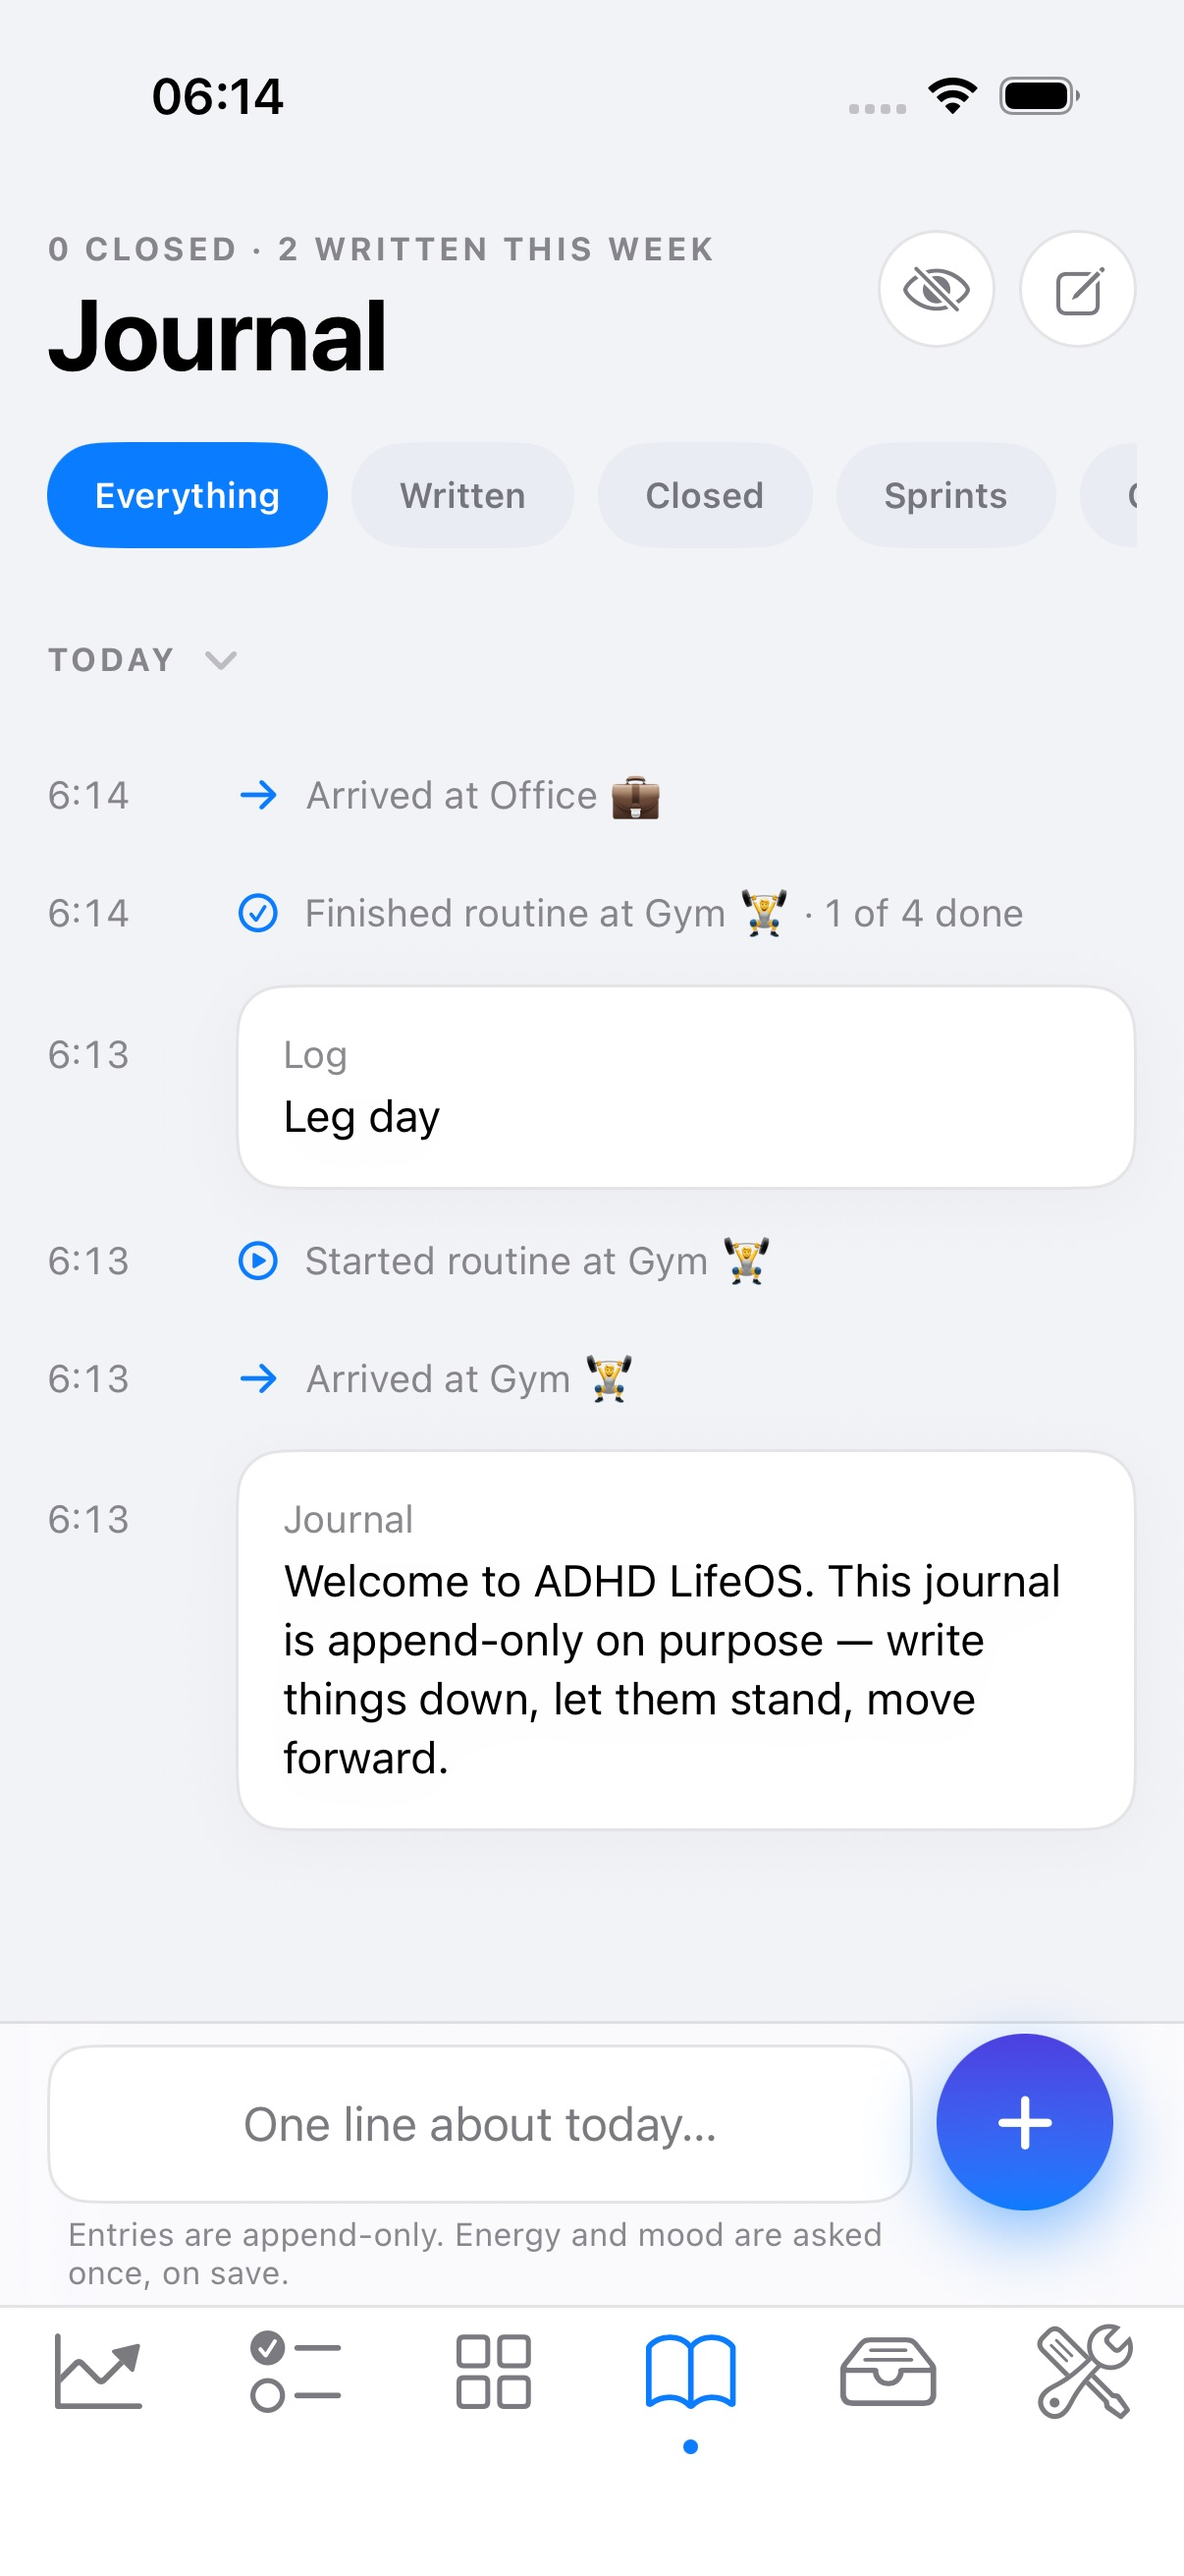
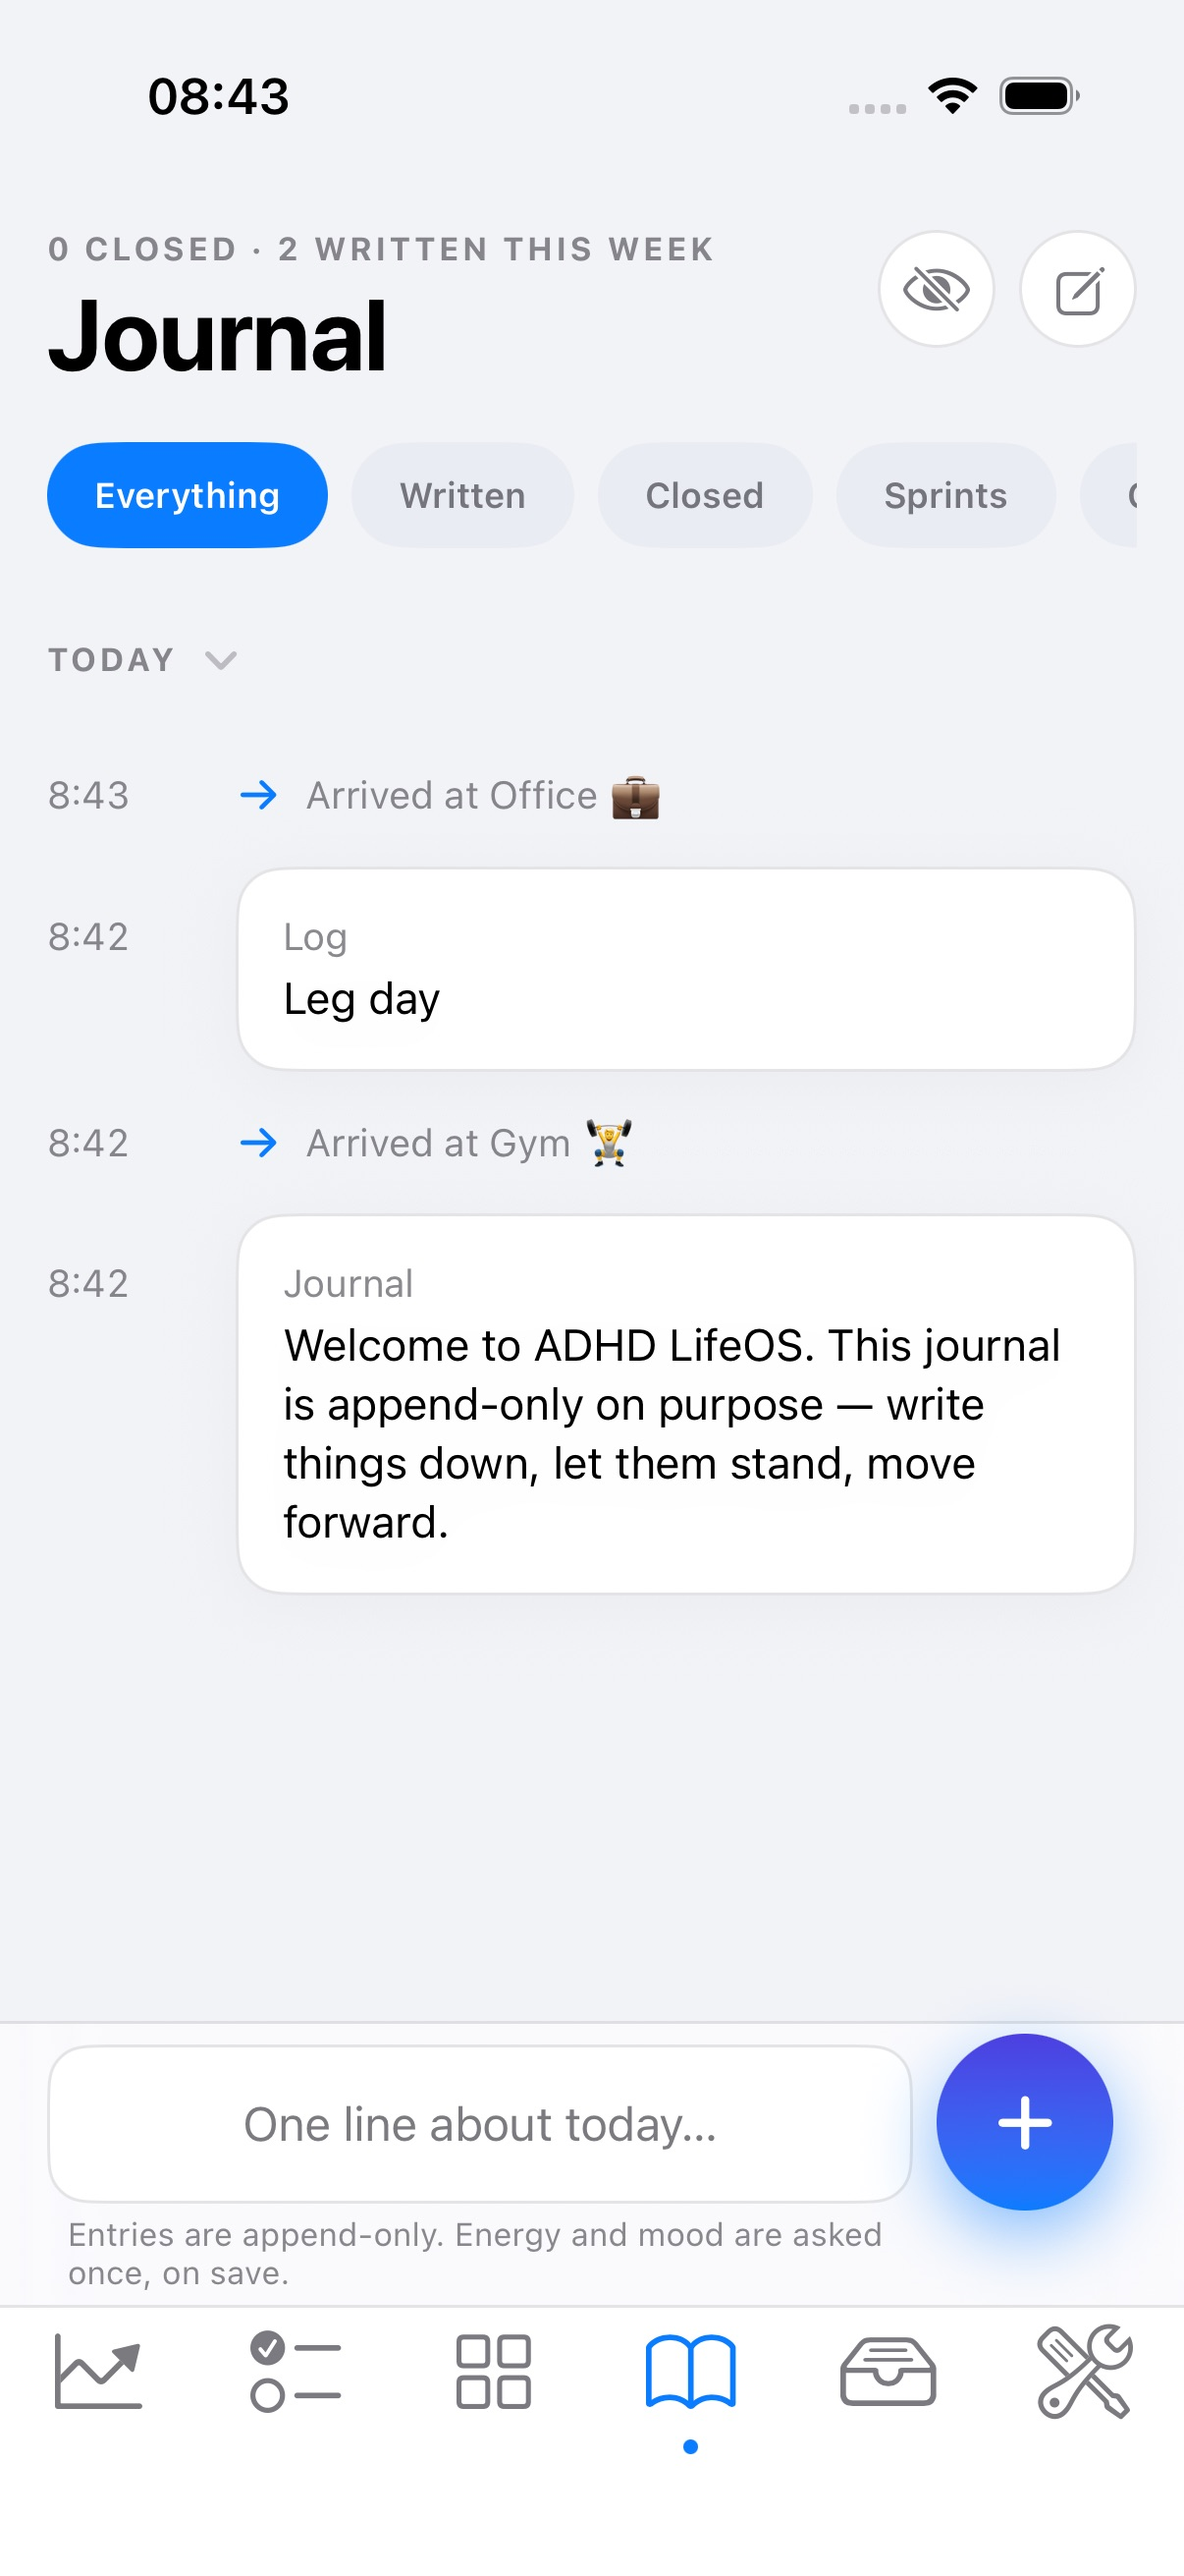
F-RoutineRecord-2: eye hides every routine row — journey green; swipe path proved on device
Finishes the WIP eye-switch change: RoutineRecordJourneyUITests passed on the
new rule (206 s, erased sim), 00-/01- re-captured, suite 2,454 / 0 with the
emulator up, lint 0 / 704, build green, red-checked (3 injections → 4 + 6 + 1
failing tests, each its guard; restored 19 / 19).

Also settles the walk's open question: the swipe path WORKS. A controlled
experiment on E's phone (test-fire via iPhone Mirroring, E's physical
Notification Centre clear, run 6EE57B3C read live before and after) flipped
the document to dismissed/swipe through the live rules. A presented banner
swiped up reports nothing to iOS, so the walk's "not opened" rows were honest.
Evidence in screenshots/routine-record/09-,10- and both design records.

Claude-Session: https://claude.ai/code/session_017SPaAdg3kMyWwzH37jWxyH

diff --git a/screenshots/routine-record/README.md b/screenshots/routine-record/README.md
@@ -28,8 +28,8 @@ in the same block:
 
 | file | what it proves |
 |---|---|
-| `00-journal-all-activity-off.jpg` | Everything, switch OFF: `Arrived at Gym` kept beside `Started routine at Gym` and `Finished routine at Gym · 1 of 4 done` (three skips, one auto step — "done" excludes skipped). `Arrived at Office` shows with NO routine row: the untaken offer is hidden by default. |
-| `01-journal-all-activity-on.jpg` | Switch ON (filled eye, selected): `Routine offered at Office · not opened` appears, muted — tertiary ink and a `bell.slash` glyph with no accent — while started/finished keep the accent glyph. Nothing else moved. |
+| `00-journal-all-activity-off.jpg` | E's post-walk rule (re-captured 2026-09-06): switch OFF hides EVERY routine row — started and finished included. The day reads `Arrived at Office 💼`, the `Leg day` log, `Arrived at Gym 🏋` and nothing else. `Leg day` stays because it is the routine's `journal_line` STEP — a `logs` row, not a routine row, so the eye rightly leaves it. |
+| `01-journal-all-activity-on.jpg` | Switch ON (filled eye, selected): the whole routine story returns — `Started routine at Gym 🏋` and `Finished routine at Gym 🏋 · 1 of 4 done` (three skips, one auto step — "done" excludes skipped) with accent glyphs, and `Routine offered at Office 💼 · not opened` muted — tertiary ink, `bell.slash`, no accent. The crossings never moved. |
 | `02-tools-last-run-line.jpg` | Tools → Routines: the gym row reads `Gym · 3 steps · last run today, 1 of 4`; the office row, never started, is byte-identical to before (`Office · 3 steps`). |
 
 ## E's device walk — 2026-09-06, iPhone 15 Pro (iOS 26.4), live Firebase, E's own account
@@ -48,11 +48,26 @@ nothing to clean up — it is E's journal.
 | `07-device-third-run-switch-off.jpg` | A third run two minutes later: `Arrived` 7:47 → `Started` 7:47 → `Finished … · 1 of 2 done` 7:48 (one skip). The three-lines-per-visit shape E chose, on real data. |
 | `08-device-third-run-switch-on.jpg` | Switch ON again over the same day: the offers return in place, muted. |
 
-**Not proved by these:** the SWIPE path. Both offered rows say `not opened`, i.e. they timed out
-or were replaced; a swiped banner would read `· cleared`. Whether E swiped them is the open
-question at the time of writing.
+## The swipe path — proved on device, 2026-09-06 review session (same phone, live Firebase)
 
-**Superseded after the walk:** E's call is that the eye hides EVERY routine row, started and
-finished included. Files `00-` and `01-` show the earlier rule (started/finished always visible)
-and will be replaced when the journey is re-run on the new rule. Files `03-`…`08-` are E's device
-walk under the earlier rule too.
+The walk left the swipe path open: every offered row said `not opened`, and E's answer to "did
+you swipe?" was *a mix of both* — which looked like a broken dismiss branch. A controlled
+experiment settled it, still on build `7430ea7`: a test-fired Home arrival at 08:35 (driven
+through iPhone Mirroring) wrote run `6EE57B3C…` as `offered` — read live over the Firebase MCP —
+then E cleared its notification in Notification Centre by hand (left swipe → Clear; mirroring
+cannot reach Notification Centre), and the document flipped to `dismissed` / `swipe` /
+`dismissed_at 07:37:27Z`. **Why the walk showed none:** swiping a PRESENTED banner up only
+hides it — iOS reports nothing — and the next fire replaces it; only a real Notification Centre
+clear is a "swipe" to iOS. E took these two screenshots minutes later; what a test cannot
+assert here is precisely the real iOS dismissal delivery and how `· cleared` reads on real data.
+
+| file | what it proves |
+|---|---|
+| `09-device-swipe-cleared-switch-off.jpg` | Dark, switch OFF: the 8:35 slot shows `Arrived at Home 🏠` alone — the cleared offer hides by default. (Started/finished rows from 7:46–7:48 still visible: this build predates the eye-hides-everything change.) |
+| `10-device-swipe-cleared-switch-on.jpg` | Switch ON: `Routine offered at Home 🏠 · cleared` at 8:35 — the first `· cleared` ever rendered, muted with the `bell.slash` glyph, sitting under its arrival row. The whole dismissal pipeline (banner → iOS dismiss action → delegate → Firestore → Journal) on one screen. |
+
+**The rule changed after the walk:** E's call is that the eye hides EVERY routine row, started
+and finished included. Files `00-` and `01-` were re-captured by the journey on that rule.
+Files `03-`…`10-` are E's device under the EARLIER rule (started/finished always visible with
+the eye off) — the phone carried `7430ea7` throughout; what they prove (muting, the three-line
+shape, the swipe pipeline) is unchanged by the eye's wider gate.

diff --git a/handoff/SESSION-OPENER-routine-record-design.md b/handoff/SESSION-OPENER-routine-record-design.md
@@ -215,10 +215,32 @@ test of it.
 
 - **E's call after the device walk: the "All activity" eye hides EVERY routine row** — started
   and finished too, not only the offers. Off, the Journal shows the crossing rows alone. This
-  supersedes "started and finished always visible under Everything" above. Implemented and
-  unit-tested in a `WIP:` commit; journey, docs and phone still owed (see the live opener).
+  supersedes "started and finished always visible under Everything" above. Implemented
+  test-first, then finished by the review session (2026-09-06): journey green on the new rule
+  (206 s, erased sim), suite 2,454 / 0, lint 0 / 704, red-checked 3 → 4 + 6 + 1. The routine's
+  own `journal_line` step rows stay visible with the eye off — they are `logs` rows, not
+  routine rows, which the re-captured `00-` screenshot shows.
 - **Build-record item 2 is withdrawn as a finding.** The off-screen `AppTabContent` change did
   not stop a later identical failure on a build that carried it, and the hidden tab's elements
   were still in that failure's dump. Treat it as a hypothesis with an insufficient fix.
-- E republished `firestore.rules`; live and repo are byte-identical. The swipe path remains
-  unproved on device pending E's answer (did they swipe or leave the banners?).
+- E republished `firestore.rules`; live and repo are byte-identical.
+
+## The swipe path — PROVED WORKING on device (2026-09-06, the review session)
+
+E's answer to the open question was "a mix of both", which made the zero `· cleared` rows look
+like a broken dismiss branch. It is not, and the proof is a controlled experiment on E's real
+phone (build `7430ea7`, live Firebase), driven through iPhone Mirroring with E's hands for the
+one gesture mirroring cannot reach:
+
+1. A test-fired Home arrival at 08:35 wrote run `6EE57B3C…` as `offered` — read live over the
+   Firebase MCP before any gesture.
+2. E cleared its notification in Notification Centre (left swipe → Clear; Notification Centre
+   is not reachable through mirroring, so this step was physical).
+3. The document flipped to `status: dismissed`, `dismissal_method: swipe`,
+   `dismissed_at 07:37:27Z` — the exact moment of the clear, through the live rules.
+
+**Why the walk showed no `cleared` rows:** swiping a PRESENTED banner up only hides it — iOS
+reports nothing for that gesture, the notification stays in the tray, and the next test-fire
+replaces it (stable identifier per place+direction). Every banner in the walk was tapped,
+replaced, or left, so `· not opened` was the honest record. Only a real Notification Centre
+clear is a "swipe" to iOS, and that path works end to end.

diff --git a/TODO-CLAUDE-CODE.md b/TODO-CLAUDE-CODE.md
@@ -2969,10 +2969,19 @@ the rows.
   keychain — so the journey was run on an erased sim from then on.
 
 **Post-walk, 2026-09-06 (end of session) — two corrections to the block above:**
-- **E's call on device: the eye hides EVERY routine row**, not only offers. Implemented and
-  unit-tested (test-first, 2,454 / 0, lint 0) in a `WIP:` commit; the journey, the docs and the
-  phone are owed by the next session. The criteria above that say offered rows are the only
-  hidden ones are superseded.
+- **E's call on device: the eye hides EVERY routine row**, not only offers. Implemented
+  test-first in a `WIP:` commit, then FINISHED by the review session (2026-09-06): the journey
+  passed on the new rule on an erased sim (206 s), `00-`/`01-` re-captured, suite **2,454 / 0**
+  (emulator up), lint **0 / 704**, build green, red-checked (3 injections → 4 + 6 + 1 failing
+  tests, each its guard; restored 19 / 19). The criteria above that say offered rows are the
+  only hidden ones are superseded. Still owed: the phone re-install and E's device confirmation.
+- **The swipe path is PROVED on device (review session, 2026-09-06).** E's walk answer ("a mix
+  of both") plus zero `· cleared` rows looked like a broken dismiss branch; a controlled
+  experiment (test-fire through iPhone Mirroring, E's physical Notification Centre clear, the
+  document read live before and after) flipped run `6EE57B3C…` to `dismissed` / `swipe`.
+  Swiping a PRESENTED banner up reports nothing to iOS — only a Notification Centre clear is a
+  "swipe" — so the walk's `· not opened` rows were honest. Evidence: `screenshots/
+  routine-record/09-`/`10-` and the design record's swipe section.
 - **The tab-root "mechanism found" bullet is WITHDRAWN as a finding**: a later journey run on a
   build carrying the off-screen change failed identically, hidden elements still in the dump.
   Register B3 stays open.
